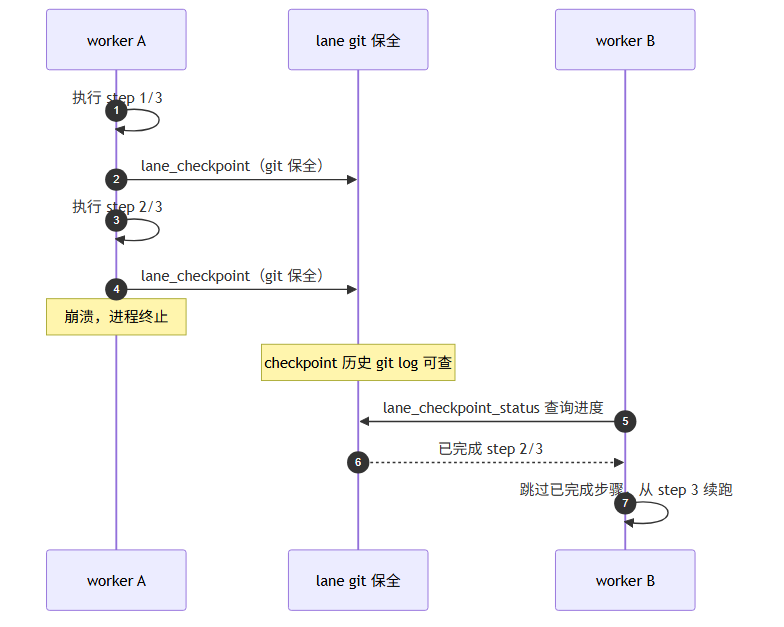
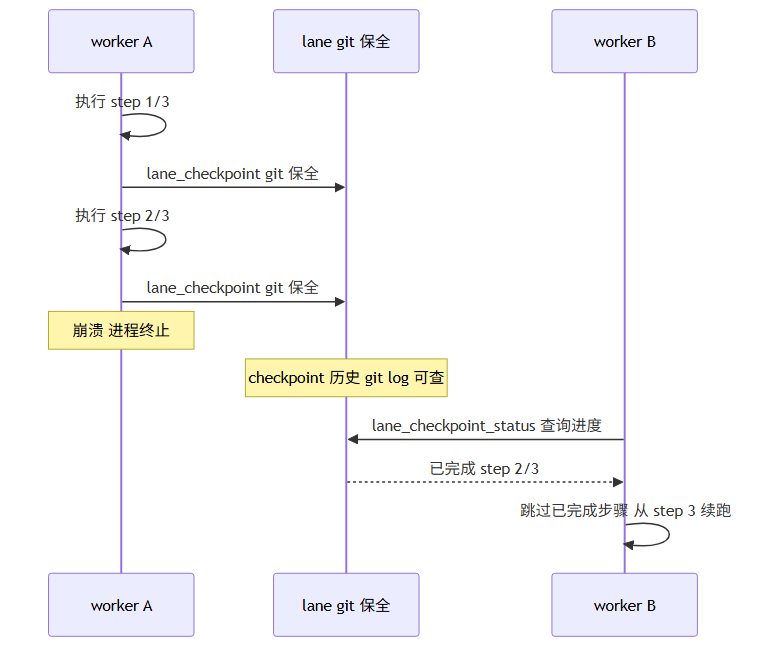
docs: mermaid syntax compat fix, simplify why section

diff --git a/README.en.md b/README.en.md
@@ -26,9 +26,9 @@ dsh-punky-swarm is a single-machine multi-agent governance plugin for DeepSeek H
 
 Single agents are easy; swarms are hard. Parallel multi-agent execution is not just firing prompts together — who runs first, who waits for whom, who writes which file, where to resume after a crash. Those are the real questions of swarm governance.
 
-- **Ungated dispatch starts work half-baked** — downstream lanes get dispatched before their dependency artifacts exist, and failures surface only at rework time. Tier3 gates check consume artifacts before dispatch and reject with GATE_ENTRY_MISSING, stopping half-baked work at the source.
-- **Long tasks without checkpoints lose everything on a crash** — one crash resets hours of batch work. Checkpoints git-preserve progress per sub-step (step N/total); a new worker queries checkpoints and skips completed steps.
-- **Parallel lanes writing one repo trample each other** — concurrent commits overwrite each other and conflicts are untraceable. Lane worktrees isolate each lane physically, merges serialize, and conflicts keep the scene for adjudication.
+- **Ungated dispatch starts work half-baked** — downstream lanes get dispatched before their dependency artifacts exist, so failures surface only at rework time. Gates verify artifacts before dispatch and reject when anything is missing, stopping half-baked work at the source.
+- **Long tasks without checkpoints lose everything on a crash** — long batches have no mid-way backup, and one crash wipes out hours of work. Progress is saved after every completed sub-step, so after a crash you resume from the breakpoint instead of starting over.
+- **Parallel lanes writing one repo trample each other** — concurrent writes to the same repo overwrite each other and conflicts are hard to trace. Each lane gets an isolated workspace, and conflicts are kept for adjudication.
 
 ## 30-Second Overview
 
@@ -42,23 +42,23 @@ Three pain points:
 
 ```mermaid
 flowchart LR
-  subgraph PLAN["plan layer"]
-    P["plan · produces spec.md"]
+  subgraph PLAN[plan layer]
+    P["plan produces spec.md"]
   end
-  subgraph EXEC["exec layer"]
-    subgraph W1["wave 1 · parallel"]
-      A1["exec-A · produces impl.md"]
-      A2["exec-B · produces test.md"]
+  subgraph EXEC[exec layer]
+    subgraph W1[wave 1 parallel]
+      A1["exec-A produces impl.md"]
+      A2["exec-B produces test.md"]
     end
-    subgraph W2["wave 2"]
-      A3["exec-C · produces verify.md"]
+    subgraph W2[wave 2]
+      A3["exec-C produces verify.md"]
     end
-    subgraph W3["wave 3"]
-      A4["exec-D · produces release.md"]
+    subgraph W3[wave 3]
+      A4["exec-D produces release.md"]
     end
   end
-  subgraph AUDIT["audit layer"]
-    AU["audit · acceptance"]
+  subgraph AUDIT[audit layer]
+    AU["audit acceptance"]
   end
   P -->|"spec.md"| A1
   P -->|"spec.md"| A2
@@ -66,7 +66,7 @@ flowchart LR
   A2 -->|"test.md"| A3
   A3 -->|"verify.md"| A4
   A4 -->|"release.md"| AU
-  NOTE["wave fixed semantics: never recomputed after batch creation"]
+  NOTE["wave fixed semantics never recomputed after batch creation"]
   EXEC -.-> NOTE
 ```
 
@@ -116,13 +116,13 @@ Minimal example (from install to the first three-layer batch):
 ```mermaid
 flowchart TD
   S["dispatch lane"] --> D1{"consume artifacts ready?"}
-  D1 -- "no" --> R1["reject dispatch · GATE_ENTRY_MISSING"]
-  D1 -- "yes" --> X["execute (worker writes artifacts)"]
+  D1 -- "no" --> R1["reject dispatch GATE_ENTRY_MISSING"]
+  D1 -- "yes" --> X["execute worker writes artifacts"]
   X --> D2{"artifacts on disk?"}
-  D2 -- "no" --> R2["reject settle · GATE_TARGET_MISSING"]
-  D2 -- "yes" --> C["member_settle → merged"]
+  D2 -- "no" --> R2["reject settle GATE_TARGET_MISSING"]
+  D2 -- "yes" --> C["member_settle merged"]
   C --> D3{"audit accepted?"}
-  D3 -- "human gate" --> R3["GATE_NEEDHUMAN · manual review"]
+  D3 -- "human gate" --> R3["GATE_NEEDHUMAN manual review"]
   D3 -- "passed" --> DONE["batch complete"]
 ```
 
@@ -130,19 +130,18 @@ flowchart TD
 
 ```mermaid
 sequenceDiagram
-  autonumber
   participant A as worker A
   participant G as lane git backup
   participant B as worker B
   A->>A: run step 1/3
-  A->>G: lane_checkpoint (git backup)
+  A->>G: lane_checkpoint git backup
   A->>A: run step 2/3
-  A->>G: lane_checkpoint (git backup)
-  Note over A: crash, process dies
+  A->>G: lane_checkpoint git backup
+  Note over A: crash process dies
   Note over G: checkpoint history in git log
   B->>G: lane_checkpoint_status query
   G-->>B: step 2/3 done
-  B->>B: skip done steps, resume from step 3
+  B->>B: skip done steps resume from step 3
 ```
 
 ## Compatibility Matrix
